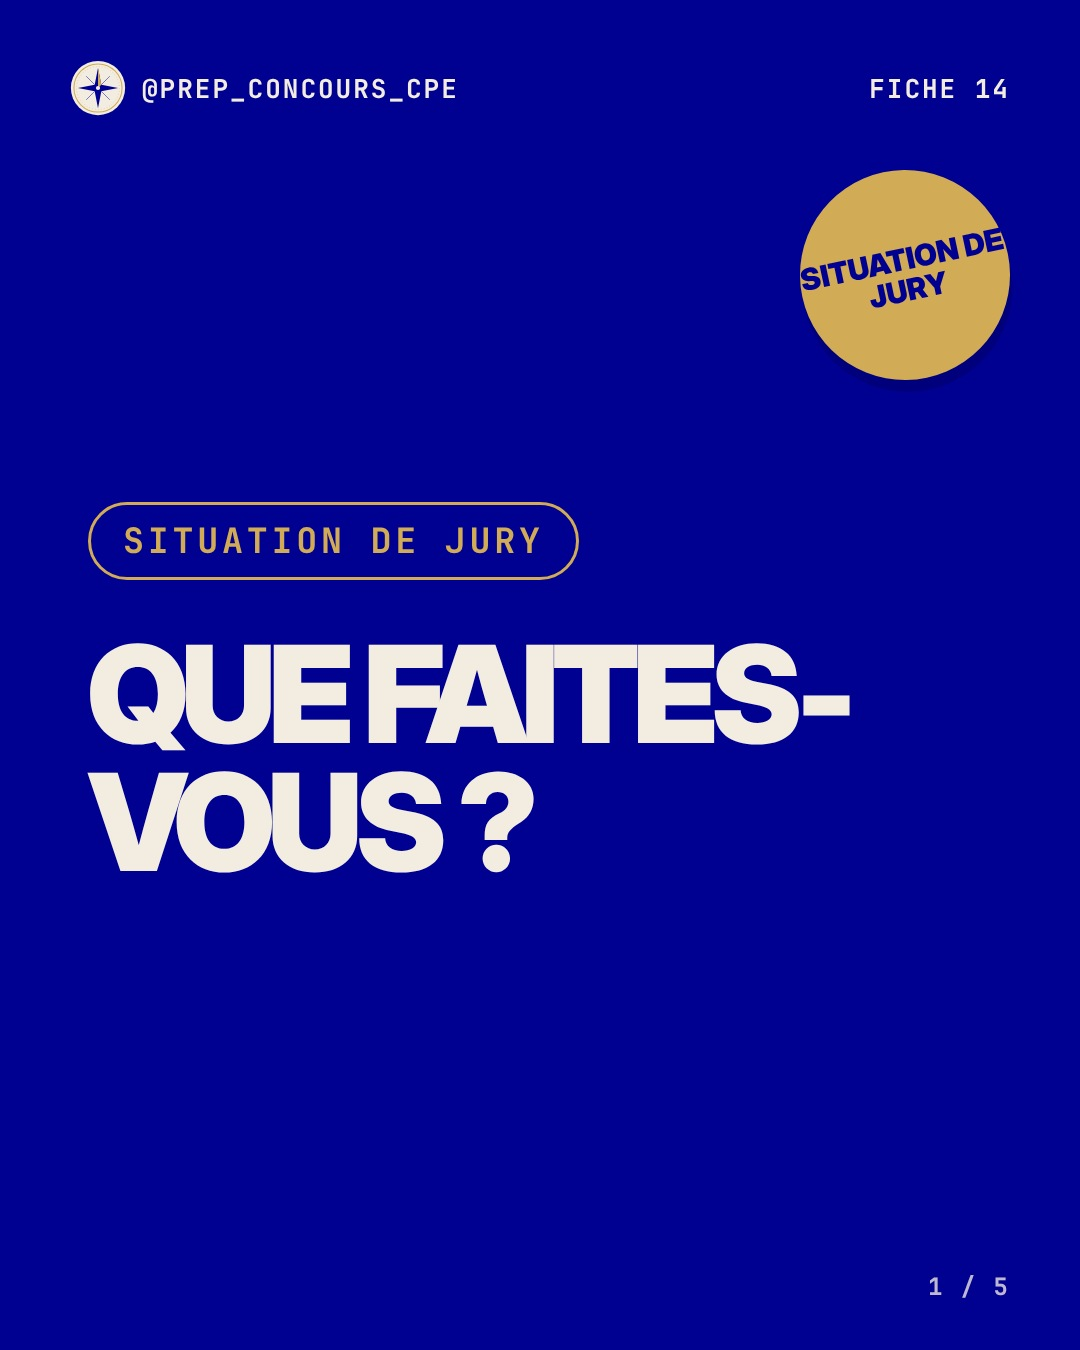
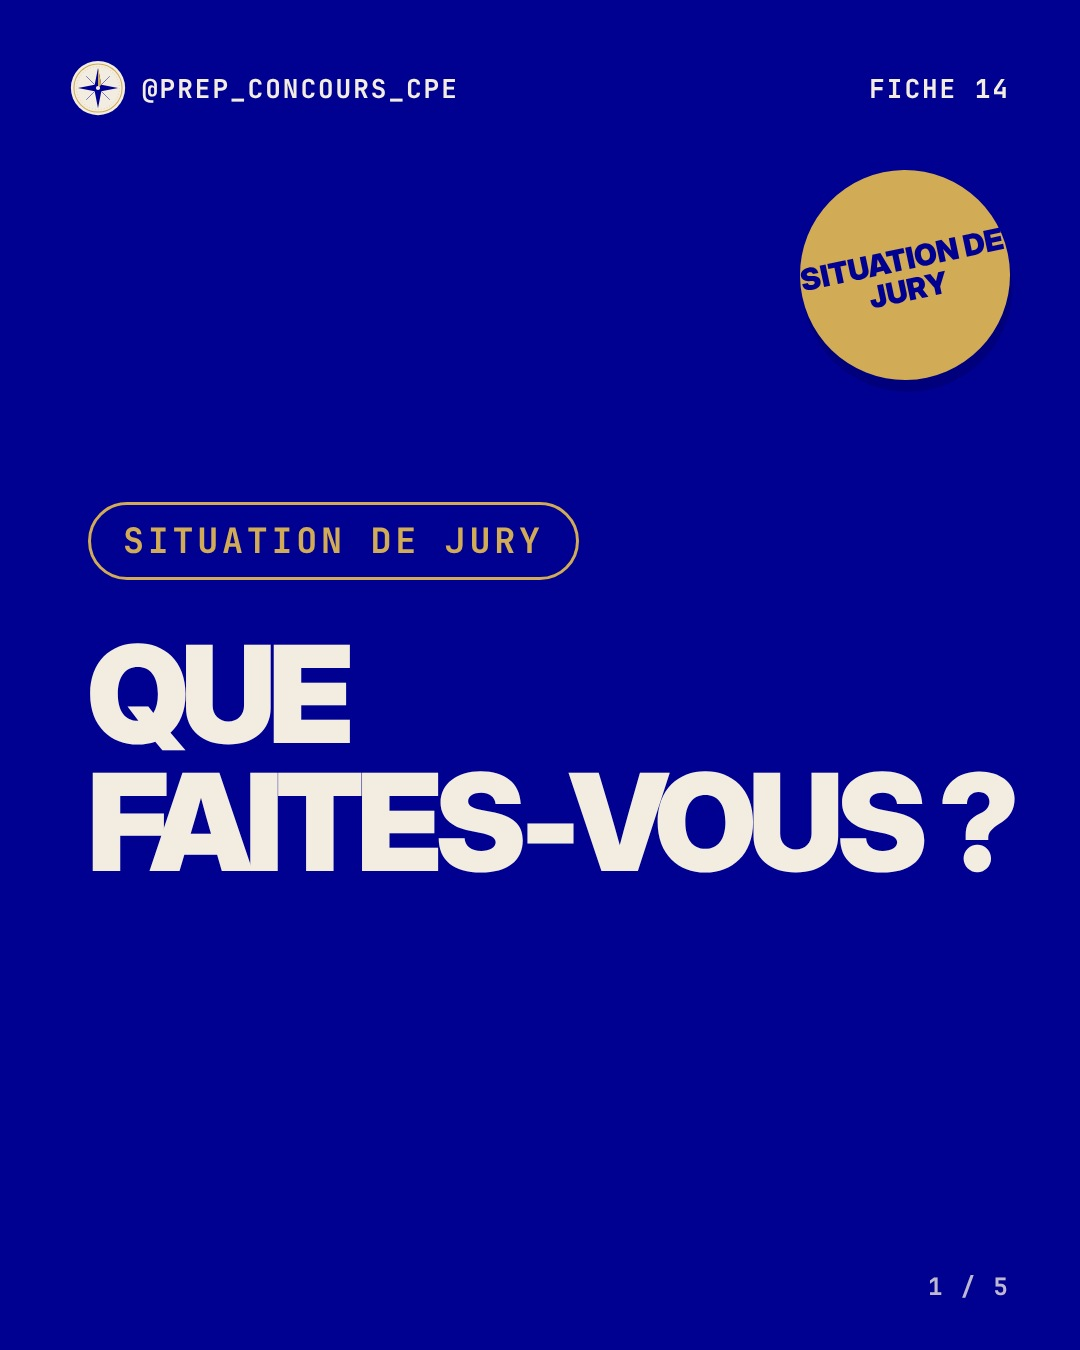
Carrousels : mots à trait d'union insécables sur les couvertures
Claude-Session: https://claude.ai/code/session_01FvtqKS2a9jhztCiMdp3pre

Changed region(s): [[0.0611, 0.4667, 0.9472, 0.6533]]

diff --git a/tools/carrousel.js b/tools/carrousel.js
@@ -62,7 +62,7 @@ function inner(sl) {
   const k = sl.kicker ? `<div class="kicker">${esc(sl.kicker)}</div>` : '';
   switch (sl.kind) {
     case 'cover':
-      const stk = (sl.kicker || 'Prep\'CPE').split('·')[0].trim(); return `<div class="stk" style="font-size:${stk.length > 10 ? 30 : 40}px">${esc(stk)}</div><div class="wrap">${k}<h1 style="font-size:${titleSize(sl.title)}px">${esc(sl.title)}</h1>${sl.note ? `<div class="note">${esc(sl.note)}</div>` : ''}</div>`;
+      const stk = (sl.kicker || 'Prep\'CPE').split('·')[0].trim(); return `<div class="stk" style="font-size:${stk.length > 10 ? 30 : 40}px">${esc(stk)}</div><div class="wrap">${k}<h1 style="font-size:${titleSize(sl.title)}px">${esc(sl.title).replace(/(\S+-\S+)/g, '<span style="white-space:nowrap">$1</span>')}</h1>${sl.note ? `<div class="note">${esc(sl.note)}</div>` : ''}</div>`;
     case 'list': {
       const num = sl.numbered !== false;
       const items = sl.lines.map((t, i) => {
